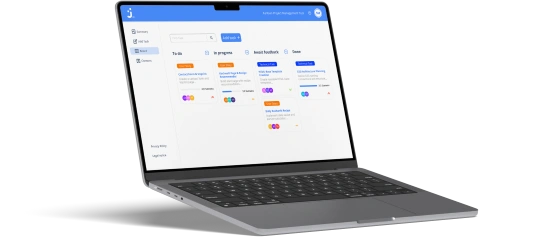
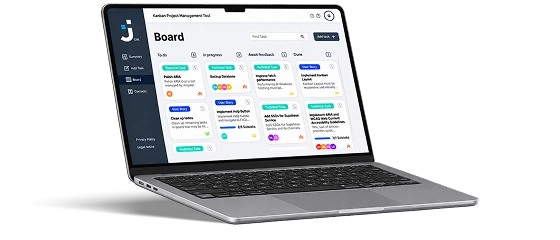
load projects from json

Changed region(s): [[0.1214, 0.0, 0.8804, 0.9917]]

diff --git a/src/app/components/content-projects/project-details/project-details.html b/src/app/components/content-projects/project-details/project-details.html
@@ -2,59 +2,36 @@
 <article class="section-project-content-wrapper">
     <section class="section-project-summary">
         <header>
-            <h2>{{ projectStr }}</h2>
+            <h2>{{ project?.title }}</h2>
             <img
                 class="underline"
-                [style.width]="projectStr?.length + 'ch'"
+                [style.width]="project?.title.length + 'ch'"
                 src="{{ underlineSrc }}"
                 aria-hidden="true"
             />
         </header>
-
         <div class="section-project-summary-description">
             <h3>Description</h3>
-            <p>
-                Lorem ipsum dolor sit, amet consectetur adipisicing elit. Itaque distinctio quas natus repellendus,
-                assumenda totam minima laborum enim ipsa voluptates.
-            </p>
+            <p>{{ project?.description }}</p>
             <h3>Implementation Details</h3>
-            <p>
-                Lorem ipsum dolor, sit amet consectetur adipisicing elit. Consectetur ipsum voluptatum totam enim
-                recusandae nobis. Optio amet quasi odit ipsa cumque rem corporis consectetur repudiandae itaque dolores
-                autem sit, vel quibusdam debitis maxime delectus obcaecati culpa distinctio laudantium repellendus Lorem
-                ipsum dolor, sit amet consectetur adipisicing elit. Consectetur ipsum voluptatum totam enim Lorem ipsum
-                dolor, sit amet consectetur adipisicing elit. Consectetur ipsum voluptatum totam enim recusandae nobis.
-                Optio amet qua dolor, sit amet consectetur adipisicing elit. Consectetur ipsum voluptatum totam enim
-                recusandae nobis. Optio amet qua dolor, sit amet consectetur adipisicing elit. Consectetur ipsum
-                voluptatum totam enim recusandae nobis. Optio amet qua dolor, sit amet consectetur adipisicing elit.
-                Consectetur ipsum voluptatum totam enim recusandae nobis. Optio amet qua dolor, sit amet consectetur
-                adipisicing elit. Consectetur ipsum voluptatum totam enim recusandae nobis. Optio amet qua dolor, sit
-                amet consectetur adipisicing elit. Consectetur ipsum voluptatum totam enim recusandae nobis. Optio amet
-                qua1
-            </p>
+            <p>{{ project?.details }}</p>
         </div>
         <div class="section-project-summary-details">
-            <p><b>Duration:</b> 5 weeks</p>
+            <p><b>Duration:</b>{{ ' ' + project?.duration }}</p>
             <div class="section-project-summary-tech">
-                <app-skill [isSmall]="true" [skillStr]="'css'"></app-skill>
-                <app-skill [isSmall]="true" [skillStr]="'html'"></app-skill>
-                <app-skill [isSmall]="true" [skillStr]="'ts'"></app-skill>
-                <app-skill [isSmall]="true" [skillStr]="'angular'"></app-skill>
-                <app-skill [isSmall]="true" [skillStr]="'supabase'"></app-skill>
+                @for (tech of project?.techs; track $index) {
+                    <app-skill [isSmall]="true" [skillStr]="tech"></app-skill>
+                }
             </div>
         </div>
     </section>
     <section class="section-project-preview">
         <div class="placeholder"></div>
-        <img
-            class="section-project-preview-img"
-            src="./assets/img/preview-pollo-loco.webp"
-            alt="preview of {{ projectStr }}"
-        />
+        <img class="section-project-preview-img" src="{{ project?.preview }}" alt="preview of {{ project?.title }}" />
         <img class="brand" src="./assets/design/03_stickers/00_round/sticker-brand-green.webp" alt="brand sticker" />
         <nav class="section-project-links">
-            <app-button [isDark]="false" [blend]="true">GitHub</app-button>
-            <app-button [isDark]="false" [blend]="true">Live Test</app-button>
+            <app-button (click)="openLink(project?.github)" [isDark]="false" [blend]="true">GitHub</app-button>
+            <app-button (click)="openLink(project?.livetest)" [isDark]="false" [blend]="true">Live Test</app-button>
         </nav>
     </section>
 </article>

diff --git a/src/app/components/content-projects/project-details/project-details.ts b/src/app/components/content-projects/project-details/project-details.ts
@@ -2,7 +2,8 @@ import { Component, inject, input } from '@angular/core';
 import { Button } from '../../elements/button/button';
 import { ActivatedRoute } from '@angular/router';
 import { Skill } from '../../elements/skill/skill';
-
+import { ProjectsService } from '../../../services/projects-service';
+import { IProject } from '../../../interfaces/iproject';
 @Component({
     imports: [Button, Skill],
     selector: 'app-project-details',
@@ -11,13 +12,23 @@ import { Skill } from '../../elements/skill/skill';
 })
 export class ProjectDetails {
     private route = inject(ActivatedRoute);
-    projectStr: string | null = null;
+    private projects = inject(ProjectsService);
+    readonly project: IProject | undefined = undefined;
+
+    projectStr: string | undefined = undefined;
     underlineSrc: string = './assets/design/00_hand-drawn-lines/01_about-me/line.webp';
 
     constructor() {
-        this.projectStr = this.route.snapshot.paramMap.get('name');
-        if (this.projectStr?.length && this.projectStr?.length <= 6) {
+        this.projectStr = this.route.snapshot.paramMap.get('name') ?? undefined;
+        this.project = this.projects.getProject(this.projectStr);
+        if (this.project && this.project.title.length <= 6) {
             this.underlineSrc = this.underlineSrc.replace('line.webp', 'line-short.webp');
+        }
+    }
+
+    openLink(url: string | undefined) {
+        if (url) {
+            window.open(url, '_blank');
         }
     }
 }

diff --git a/src/app/services/projects-service.ts b/src/app/services/projects-service.ts
@@ -1,0 +1,12 @@
+import { Service } from '@angular/core';
+import { IProject } from '../interfaces/iproject';
+import projects from '../data/projects-db.json';
+
+@Service()
+export class ProjectsService {
+    private projects = projects;
+
+    getProject(key: string | undefined): IProject | undefined {
+        return key ? this.projects.find((project) => project.key === key) : undefined;
+    }
+}

diff --git a/src/app/services/header-service.ts b/src/app/services/header-service.ts
@@ -1,6 +1,6 @@
-import { Injectable, signal } from '@angular/core';
+import { Service, signal } from '@angular/core';
 
-@Injectable({ providedIn: 'root' })
+@Service()
 export class HeaderService {
     showSocialsDesktop = signal<boolean>(true);
     isFixed = signal<boolean>(true);

diff --git a/src/app/interfaces/iproject.ts b/src/app/interfaces/iproject.ts
@@ -1,0 +1,12 @@
+export interface IProject {
+    key: string;
+    title: string;
+    description: string;
+    details: string;
+    duration: string;
+    techs: string[];
+    preview: string;
+    featured: boolean;
+    github: string;
+    livetest: string;
+}

diff --git a/src/app/services/dark-service.ts b/src/app/services/dark-service.ts
@@ -1,6 +1,6 @@
-import { Injectable, signal } from '@angular/core';
+import { Service, signal } from '@angular/core';
 
-@Injectable({ providedIn: 'root' })
+@Service()
 export class DarkService {
     requiresDark = signal<boolean>(false);
 
